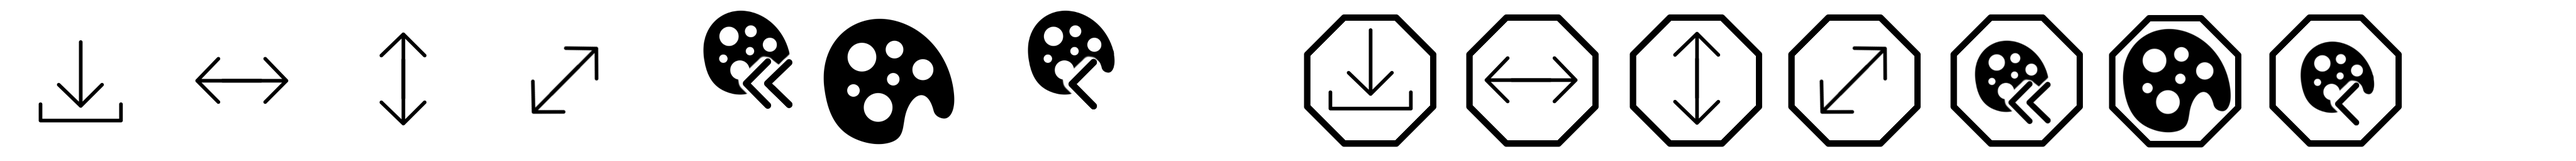
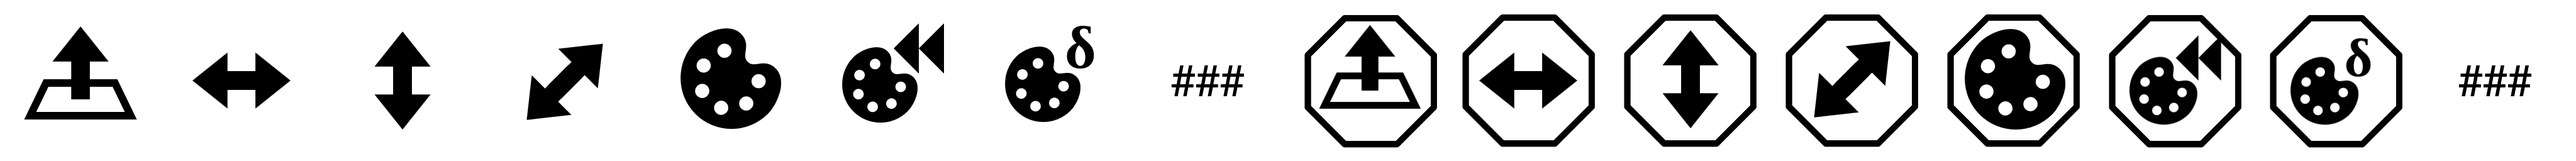
update CSGV Brick Viewer

Changed region(s): [[0.0, 0.0625, 1.0, 0.9062]]

diff --git a/volcanite/include/volcanite/renderer/CompressedSegmentationVolumeBrickViewer.hpp b/volcanite/include/volcanite/renderer/CompressedSegmentationVolumeBrickViewer.hpp
@@ -21,10 +21,10 @@
 #include <utility>
 
 #include "vvv/core/Renderer.hpp"
-#include "vvv/core/Shader.hpp"
-#include "vvv/util/hash_memory.hpp"
 #include "vvv/reflection/UniformReflection.hpp"
 #include "vvv/passes/PassCompute.hpp"
+#define FMT_HEADER_ONLY
+#include "fmt/include/fmt/format.h"
 
 #ifdef IMGUI
     #include "imgui.h"
@@ -60,19 +60,36 @@ public:
 
     void initGui(vvv::GuiInterface * gui) override {
         assert(m_compressed_segmentation_volume && "must set CSGV data set before starting csgv brick viewer");
-        glm::uvec3 brick_count = m_compressed_segmentation_volume->getBrickCount();
-        uint32_t brick_size = m_compressed_segmentation_volume->getBrickSize();
+        const glm::ivec3 brick_count = {m_compressed_segmentation_volume->getBrickCount()};
+        const int brick_size = static_cast<int>(m_compressed_segmentation_volume->getBrickSize());
+
+        m_csgv_infos.emplace_back("Volume", m_compressed_segmentation_volume->getLabel());
+        m_csgv_infos.emplace_back("Encoding Mode", EncodingMode_STR(m_compressed_segmentation_volume->getEncodingMode()));
+        uint32_t op_mask = m_compressed_segmentation_volume->getOperationMask();
+        m_csgv_infos.emplace_back("Operation Mask", OperationMask_STR(op_mask));
+        m_csgv_infos.emplace_back("Max. Palette Size", std::to_string(m_compressed_segmentation_volume->getMaxBrickPaletteCount()));
+        m_csgv_infos.emplace_back("Unique Labels", std::to_string(m_compressed_segmentation_volume->getNumberOfUniqueLabelsInVolume()));
+        m_csgv_infos.emplace_back("Brick Size", std::to_string(m_compressed_segmentation_volume->getBrickSize()));
+        m_csgv_infos.emplace_back("LOD Count", std::to_string(m_compressed_segmentation_volume->getLodCountPerBrick()));
+        m_csgv_infos.emplace_back("Brick Count", str(m_compressed_segmentation_volume->getBrickCount()));
+        m_csgv_infos.emplace_back("Volume Size", str(m_compressed_segmentation_volume->getVolumeDim()));
+        m_csgv_infos.emplace_back("Compression Ratio", std::to_string(m_compressed_segmentation_volume->getCompressionRatio()) + "%");
 
         auto g = gui->get("Compressed Segmentation Volume Brick Visualizer");
-        g->addColor(&m_background_color_a, "Background Color A");
-        g->addColor(&m_background_color_b, "Background Color B");
         g->addInt(&m_brick_id.x, "Brick X", 0, brick_count.x - 1, 1);
         g->addInt(&m_brick_id.y, "Brick Y", 0, brick_count.y - 1, 1);
         g->addInt(&m_brick_id.z, "Brick Z", 0, brick_count.z - 1, 1);
         g->addInt(&m_brick_slice, "Brick Slice", 0, brick_size - 1, 1);
+        g->addSeparator();
         g->addInt(&m_label_color_mult, "Label Color Cycle", 1, 100000, 5);
-        g->addBool(&m_show_label_bits, "Show Label Bits");
         g->addCombo(&m_show_code_mode, {"All", "New Palette", "Flat"}, [this](int v) { m_show_code_mode = v; });
+        g->addBool(&m_show_label_bits, "Show Label Bits");
+        g->addColor(&m_background_color_a, "Background Color A");
+        g->addColor(&m_background_color_b, "Background Color B");
+        g->addSeparator();
+        for (auto& m_csgv_info : m_csgv_infos) {
+            g->addDynamicText(&m_csgv_info.second, m_csgv_info.first);
+        }
 #ifdef IMGUI
         g->addCustomCode([this](){
             auto mousePos = ImGui::GetMousePos();
@@ -88,17 +105,21 @@ public:
     void setCompressedSegmentationVolume(std::shared_ptr<CompressedSegmentationVolume> tree) {
         m_compressed_segmentation_volume = std::move(tree);
         m_data_changed = true;
+
+        m_brick_id = m_compressed_segmentation_volume->getBrickCount() / 2u;
+        m_brick_slice = static_cast<int>(m_compressed_segmentation_volume->getBrickSize() / 2u);
     }
 
     const std::optional<RendererOutput> &mostRecentFrame() { return m_mostRecentFrame; }
 
 private:
     // gui parameters
+    std::vector<std::pair<std::string, std::string>> m_csgv_infos;
     glm::vec4 m_background_color_a = glm::vec4(1.f, 1.f, 1.f, 1.f);
-    glm::vec4 m_background_color_b = glm::vec4(0.9f, 0.95f, 1.f, 1.f);
+    glm::vec4 m_background_color_b = glm::vec4(1.f, 1.f, 1.f, 1.f);
     glm::ivec3 m_brick_id = glm::ivec3(0);
     int m_brick_slice = 0;
-    glm::ivec3 m_current_decoded_brick = glm::ivec3(0);
+    glm::ivec3 m_current_decoded_brick = glm::ivec3(-1);
     bool m_show_label_bits = false;
     int m_show_code_mode = 0;
     int m_label_color_mult = 1;

diff --git a/volcanite/src/bin/csgv_brick_viewer.cpp b/volcanite/src/bin/csgv_brick_viewer.cpp
@@ -14,7 +14,9 @@
 //  along with this program.  If not, see <https://www.gnu.org/licenses/>.
 
 #include <string>
-#include "vvv/util/Logger.hpp"
+
+#include "volcanite/VolcaniteArgs.hpp"
+#include "volcanite/util/args_and_csgv_provider.hpp"
 
 #ifdef HEADLESS
     #include "vvv/headless_entrypoint.hpp"
@@ -23,34 +25,32 @@
 #include "vvvwindow/App.hpp"
 #include "vvvwindow/entrypoint.hpp"
 
+
 #include "volcanite/compression/CompressedSegmentationVolume.hpp"
 #include "volcanite/renderer/CompressedSegmentationVolumeBrickViewer.hpp"
 #include <memory>
+
+namespace volcanite {
+    class CSGVDatabase;
+}
 
 using namespace volcanite;
 
 
 int csgv_brick_viewer(int argc, char *argv[]) {
 
-    if (argc <= 1) {
-        Logger(ERROR) << "No CSGV file path provided as command line argument. Compress a volume with Volcanite first.";
-        return -1;
-    }
+    VolcaniteArgs args;
+    std::shared_ptr<volcanite::CompressedSegmentationVolume> csgv;
+    std::shared_ptr<volcanite::CSGVDatabase> csgvDatabase;
+    auto ret = volcanite_provide_args_and_csgv(args, csgv, csgvDatabase, argc, argv);
+    if (ret != RET_SUCCESS) { return ret; }
 
-    std::string path = argv[1];
     std::string appName = "Compressed Segmentation Volume Brick Viewer";
 
-    // Load a data set and encode it as a CompressedSegmentationVolume
-    auto csgv = std::make_shared<volcanite::CompressedSegmentationVolume>();
-    if(!csgv->importFromFile(path, true)) {
-        Logger(ERROR) << "Could not import CSGV from " << path;
-        return -2;
-    }
-
     // create and run the interactive Application
-    const auto renderer = std::make_shared<volcanite::CompressedSegmentationVolumeBrickViewer>();
+    const auto renderer = std::make_shared<CompressedSegmentationVolumeBrickViewer>();
     renderer->setCompressedSegmentationVolume(csgv);
-    auto app = Application::create(appName, renderer);
+    const auto app = Application::create(appName, renderer);
     app->setVSync(true);
     return app->exec();
 }

diff --git a/volcanite/src/renderer/PassCompSegVolRender.cpp b/volcanite/src/renderer/PassCompSegVolRender.cpp
@@ -164,7 +164,6 @@ std::vector<std::shared_ptr<Shader>> PassCompSegVolRender::createShaders() {
             m_parallel_decode ? std::make_shared<Shader>(SimpleGlslShaderRequest{.filename="volcanite/renderer/csgv_decompress_subgroup_parallel.comp", .defines= m_shader_defines, .label="csgv_decompress_subgroup_parallel.comp"}, compileErrorCallback) :
                                 std::make_shared<Shader>(SimpleGlslShaderRequest{.filename="volcanite/renderer/csgv_decompress.comp", .defines= m_shader_defines, .label="csgv_decompress.comp"}, compileErrorCallback),
             std::make_shared<Shader>(SimpleGlslShaderRequest{.filename="volcanite/renderer/csgv_renderer.comp", .defines= m_shader_defines, .label="csgv_renderer.comp"}, compileErrorCallback),
-//            std::make_shared<Shader>(SimpleGlslShaderRequest{.filename="volcanite/renderer/csgv_upsample_resolve.comp", .defines= m_shader_defines, .label="csgv_upsample_resolve.comp"}, compileErrorCallback),
             std::make_shared<Shader>(SimpleGlslShaderRequest{.filename="volcanite/renderer/csgv_denoise_resolve.comp", .defines= m_shader_defines, .label="csgv_denoise_resolve.comp"}, compileErrorCallback),
             std::make_shared<Shader>(SimpleGlslShaderRequest{.filename="volcanite/renderer/csgv_renderer_dummy.comp", .defines= m_shader_defines, .label="csgv_renderer_dummy.comp"}, compileErrorCallback),
             };

diff --git a/volcanite/include/volcanite/compression/CompSegVolHandler.hpp b/volcanite/include/volcanite/compression/CompSegVolHandler.hpp
@@ -195,27 +195,7 @@ public:
 
 
         if(cfg.verbose) {
-            std::string op_mask_str;
-            if (cfg.op_mask == OP_ALL)
-                op_mask_str = "ALL";
-            else if (cfg.op_mask == OP_ALL_WITHOUT_DELTA)
-                op_mask_str = "OPT";
-            else {
-                if (cfg.op_mask & OP_PARENT_BIT)
-                    op_mask_str.push_back('p');
-                if (cfg.op_mask & OP_NEIGHBORY_BIT)
-                    op_mask_str.push_back('x');
-                if (cfg.op_mask & OP_NEIGHBORY_BIT)
-                    op_mask_str.push_back('y');
-                if (cfg.op_mask & OP_NEIGHBORZ_BIT)
-                    op_mask_str.push_back('z');
-                if (cfg.op_mask & OP_PALETTE_LAST_BIT)
-                    op_mask_str.push_back('l');
-                if (cfg.op_mask & OP_PALETTE_D_BIT)
-                    op_mask_str.push_back('d');
-                if (cfg.op_mask & OP_STOP_BIT)
-                    op_mask_str.push_back('s');
-            }
+            std::string op_mask_str = OperationMask_STR(cfg.op_mask);
             Logger(INFO) << "Compressing " << volume_input_path
                          << (cfg.chunked_input_data ? " with chunk indices " + str(cfg.max_file_index) : "")
                          << " to " << csgv_path << " [b=" << cfg.brick_dim << ", e=" << EncodingMode_STR(cfg.encoding_mode)

diff --git a/lib/vvv-glfw-app/src/GuiImgui.cpp b/lib/vvv-glfw-app/src/GuiImgui.cpp
@@ -406,7 +406,10 @@ void GuiImgui::renderGui() {
                 }
                 case GuiDynamicText: {
                     auto e = GUI_CAST(be, std::string);
-                    ImGui::TextUnformatted(e->value->c_str());
+                    if (e->label.empty())
+                        ImGui::TextUnformatted(e->value->c_str());
+                    else
+                        ImGui::LabelText(e->label.c_str(), "%s", e->value->c_str());
                     break;
                 }
                 case GuiProgress: {

diff --git a/lib/vvv/include/vvv/core/Renderer.hpp b/lib/vvv/include/vvv/core/Renderer.hpp
@@ -35,6 +35,8 @@ struct RendererOutput {
 
 class Renderer {
 public:
+    virtual ~Renderer() = default;
+
     /// Schedule work for the next frame in the frame sequence
     /// @param awaitBeforeExecution A set of semaphores that are signaled when frame should start rendering. the rendering engine MUST await these semaphores.
     virtual RendererOutput renderNextFrame(AwaitableList awaitBeforeExecution = {}, BinaryAwaitableList awaitBinaryAwaitableList = {}, vk::Semaphore *signalBinarySemaphore = nullptr) = 0;

diff --git a/volcanite/include/volcanite/renderer/CompressedSegmentationVolumeRenderer.hpp b/volcanite/include/volcanite/renderer/CompressedSegmentationVolumeRenderer.hpp
@@ -354,7 +354,7 @@ private:
     void updateDeviceMemoryUsage();
     void updateSegmentedVolumeMaterial(int m);
     vvv::AwaitableList updateAttributeBuffers();
-    void updateRequestLimiation(uint32_t global_min_spp);
+    void updateRequestLimiation(uint32_t global_min_spp, uint32_t global_max_spp);
     void disableRequestLimiation();
     void updateRenderUpdateFlags();
     void updateUniformDescriptorset();

diff --git a/volcanite/ReadMe.md b/volcanite/ReadMe.md
@@ -44,7 +44,7 @@ Colors of such
 
 **Temporal Accumulation:**
 Ping-pong buffers are used for temporal accumulation of RGB radiance and sample counts.
-The [csgv_upsample_resolve](./data/shader/volcanite/renderer/csgv_upsample_resolve.comp) shader handles the feedback loop and blitting to the output color buffer.
+The [csgv_denoise_resolve](./data/shader/volcanite/renderer/csgv_denoise_resolve.comp) shader handles the feedback loop and blitting to the output color buffer.
 Any color space conversion, tonemapping or other post-processing can be handled in this stage.
 In general, our temporal accumulation allows us to
 * draw a different number of samples per pixel (including 0) between different pixels in the same frame,
